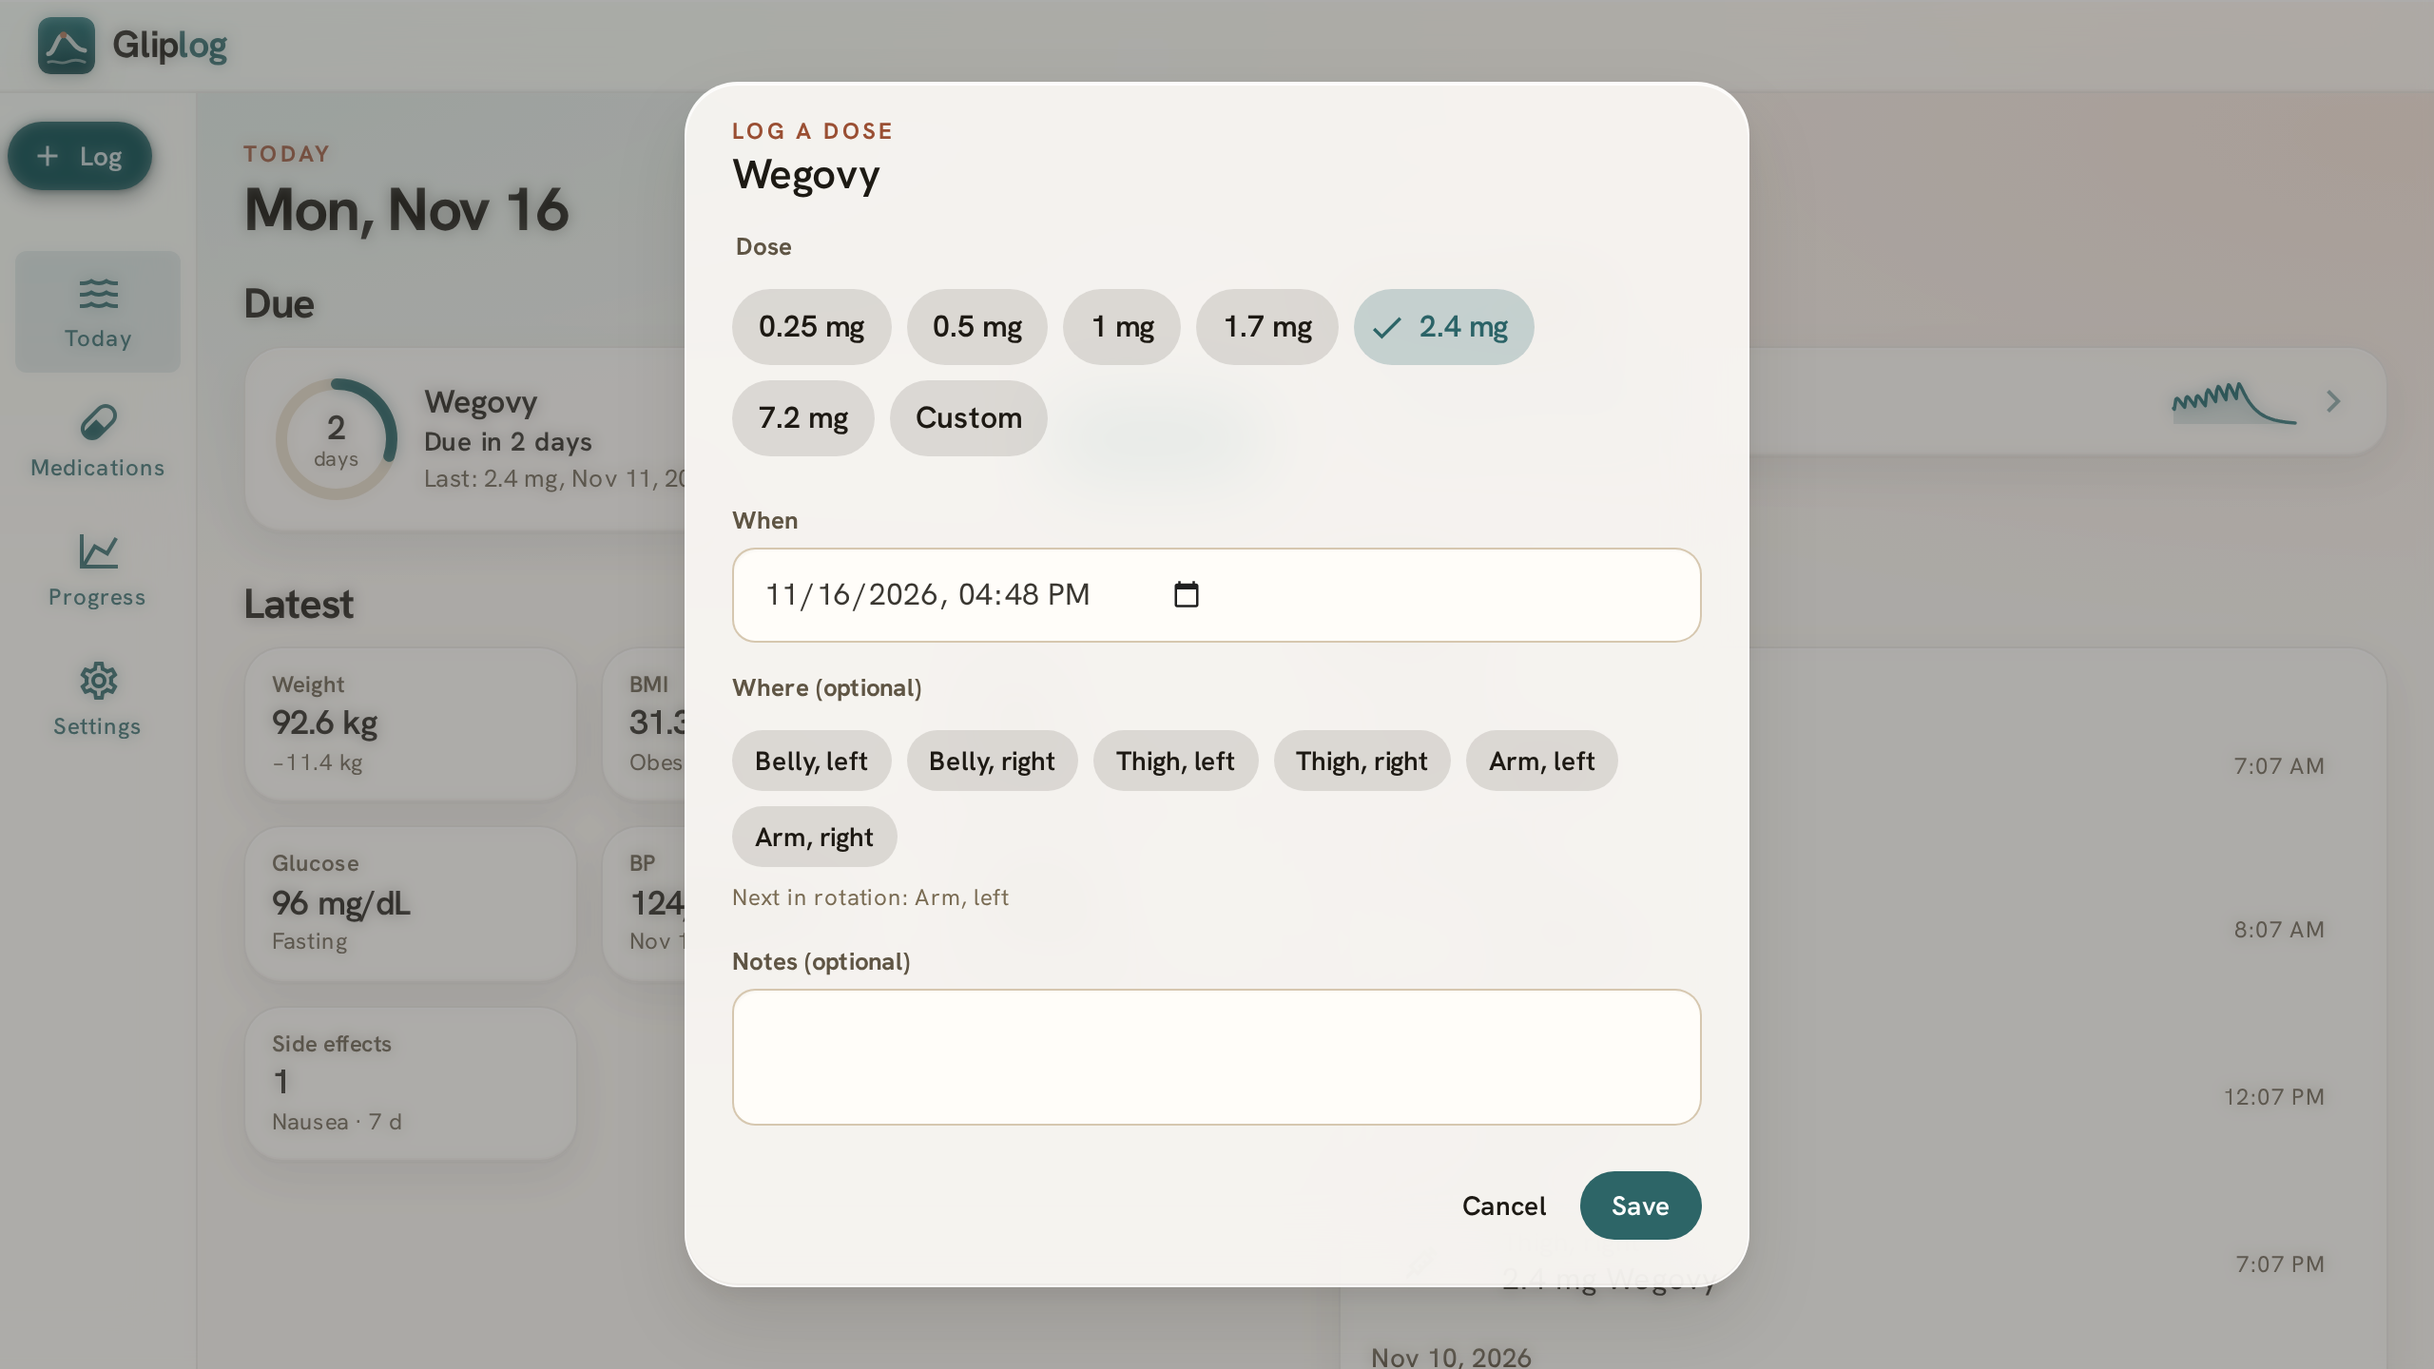
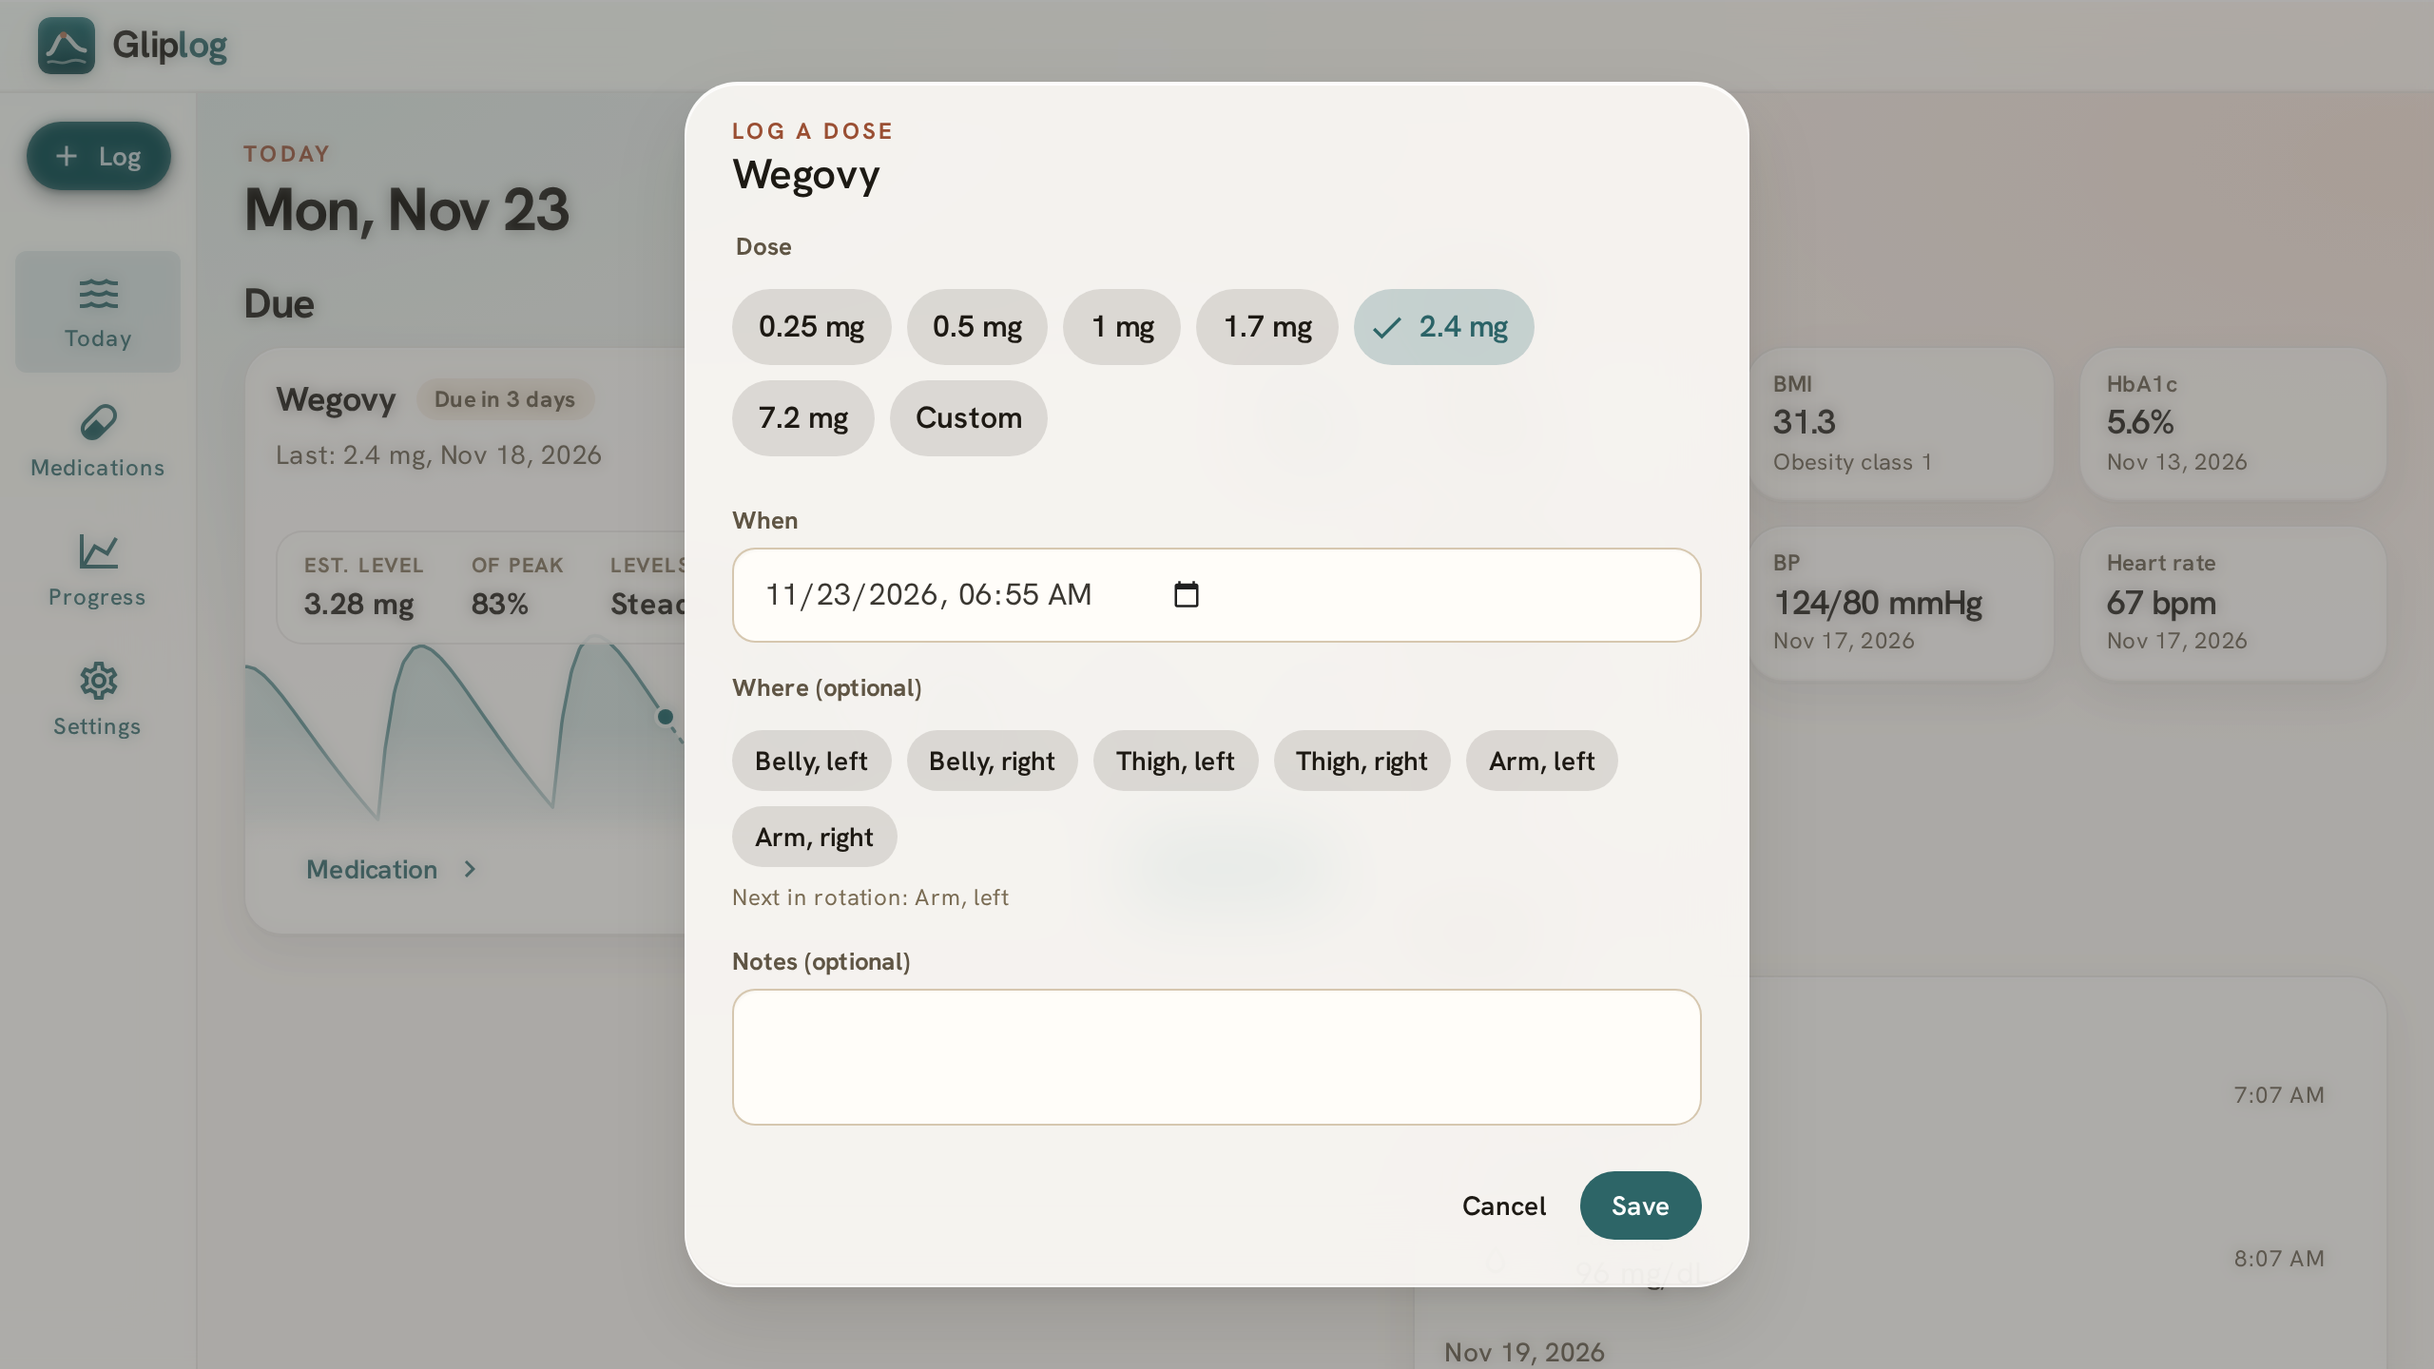
Release 0.3.3: optional realistic draw visualization
- Hide the syringe needle and plunger by default in Android and iOS builds for compounded medications.
- Add a Realistic draw visualization setting (on by default on the web, off by default in native apps).
- Apply the setting to LogDoseDialog and MedicationView syringe graphics.
- Update fastlane store screenshots.

diff --git a/src/stores/settings.ts b/src/stores/settings.ts
@@ -46,7 +46,14 @@ const SETTING_KEYS = {
   installHintDismissed: 'installHintDismissed',
   reminders: 'reminders',
   dismissedOverlaps: 'dismissedOverlaps',
+  realisticSyringe: 'realisticSyringe',
 } as const
+
+/**
+ * Whether the syringe drawing shows a needle and plunger. Off by default in the Android and iOS
+ * apps, where store policies restrict medical syringe imagery; on by default on the web.
+ */
+const REALISTIC_SYRINGE_DEFAULT = !__NATIVE__
 
 const positiveOrNull = (v: unknown) =>
   typeof v === 'number' && Number.isFinite(v) && v > 0 ? v : null
@@ -79,6 +86,7 @@ export const useSettingsStore = defineStore('settings', () => {
   const reminders = ref<ReminderSettings>(sanitizeReminderSettings(null))
   /** Combinations of medicines whose "both in use" notice the user dismissed (see overlap.ts). */
   const dismissedOverlaps = ref<string[]>([])
+  const realisticSyringe = ref(REALISTIC_SYRINGE_DEFAULT)
 
   async function load() {
     const [
@@ -93,6 +101,7 @@ export const useSettingsStore = defineStore('settings', () => {
       hint,
       remind,
       overlaps,
+      realistic,
     ] = await Promise.all([
       repository.getSetting<ThemePreference>(SETTING_KEYS.theme),
       repository.getSetting<WeightUnit>(SETTING_KEYS.weightUnit),
@@ -105,6 +114,7 @@ export const useSettingsStore = defineStore('settings', () => {
       repository.getSetting<boolean>(SETTING_KEYS.installHintDismissed),
       repository.getSetting<unknown>(SETTING_KEYS.reminders),
       repository.getSetting<unknown>(SETTING_KEYS.dismissedOverlaps),
+      repository.getSetting<unknown>(SETTING_KEYS.realisticSyringe),
     ])
     const storedUnits = {
       weightUnit: wUnit,
@@ -135,6 +145,7 @@ export const useSettingsStore = defineStore('settings', () => {
     installHintDismissed.value = hint ?? false
     reminders.value = sanitizeReminderSettings(remind)
     dismissedOverlaps.value = sanitizeDismissed(overlaps)
+    realisticSyringe.value = typeof realistic === 'boolean' ? realistic : REALISTIC_SYRINGE_DEFAULT
     await Promise.all(
       (Object.keys(toStore) as (keyof UnitDefaults)[]).map((key) => {
         const value = toStore[key]
@@ -156,6 +167,11 @@ export const useSettingsStore = defineStore('settings', () => {
   async function setTheme(value: ThemePreference) {
     theme.value = value
     await repository.setSetting(SETTING_KEYS.theme, value)
+  }
+
+  async function setRealisticSyringe(value: boolean) {
+    realisticSyringe.value = value
+    await repository.setSetting(SETTING_KEYS.realisticSyringe, value)
   }
 
   async function setWeightUnit(value: WeightUnit) {
@@ -253,8 +269,10 @@ export const useSettingsStore = defineStore('settings', () => {
     installHintDismissed,
     reminders,
     dismissedOverlaps,
+    realisticSyringe,
     load,
     setTheme,
+    setRealisticSyringe,
     setWeightUnit,
     setHeightUnit,
     setGlucoseUnit,

diff --git a/src/components/journal/SyringeGraphic.vue b/src/components/journal/SyringeGraphic.vue
@@ -3,12 +3,20 @@ import { computed, onBeforeUnmount, onMounted, ref, useId, watch } from 'vue'
 import { roundTo } from '@/domain/units'
 
 /**
- * A 1 mL U-100 insulin syringe drawn up to `units`. The plunger glides to each new reading;
- * the text reading is exact and never tweened.
+ * A 1 mL U-100 insulin syringe drawn up to `units`. The fill glides to each new reading; the
+ * text reading is exact and never tweened.
  */
-const props = defineProps<{
-  units: number
-}>()
+const props = withDefaults(
+  defineProps<{
+    units: number
+    /**
+     * Draw the needle and plunger. Off draws only the graduated barrel and its liquid, which
+     * store policies on medical syringe imagery allow (see `realisticSyringe` in settings).
+     */
+    realistic?: boolean
+  }>(),
+  { realistic: false },
+)
 
 // A 1 mL U-100 syringe, the largest common size: 100 units, a tick every 2, a number every 10.
 const CAPACITY_UNITS = 100
@@ -93,7 +101,7 @@ const flagX = computed(() =>
 </script>
 
 <template>
-  <figure class="syringe">
+  <figure class="syringe" :class="{ 'syringe--simple': !realistic }">
     <svg
       :viewBox="`0 0 ${VIEW_W} ${VIEW_H}`"
       role="img"
@@ -110,8 +118,17 @@ const flagX = computed(() =>
       </defs>
 
       <!-- Needle and hub -->
-      <line class="syringe__needle" x1="8" :y1="MID_Y" :x2="BARREL_X - 16" :y2="MID_Y" />
-      <rect class="syringe__hub" :x="BARREL_X - 18" :y="MID_Y - 9" width="18" height="18" rx="3" />
+      <template v-if="realistic">
+        <line class="syringe__needle" x1="8" :y1="MID_Y" :x2="BARREL_X - 16" :y2="MID_Y" />
+        <rect
+          class="syringe__hub"
+          :x="BARREL_X - 18"
+          :y="MID_Y - 9"
+          width="18"
+          height="18"
+          rx="3"
+        />
+      </template>
 
       <!-- Barrel, liquid, and plunger -->
       <rect
@@ -132,6 +149,7 @@ const flagX = computed(() =>
         :fill="`url(#${fluidId})`"
       />
       <rect
+        v-if="realistic"
         class="syringe__rod"
         :x="fillX + STOPPER_W"
         :y="MID_Y - 5"
@@ -139,7 +157,7 @@ const flagX = computed(() =>
         height="10"
       />
       <!-- Rubber stopper: two sealing ribs either side of a groove -->
-      <g class="syringe__stopper">
+      <g v-if="realistic" class="syringe__stopper">
         <rect :x="fillX" :y="BARREL_Y + 2" :width="STOPPER_W" :height="BARREL_H - 4" rx="2" />
         <rect
           class="syringe__groove"
@@ -160,6 +178,7 @@ const flagX = computed(() =>
         rx="2.5"
       />
       <rect
+        v-if="realistic"
         class="syringe__thumb"
         :x="BARREL_X + BARREL_W + 52"
         :y="BARREL_Y - 6"

diff --git a/tests/components/journal/SyringeGraphic.spec.ts b/tests/components/journal/SyringeGraphic.spec.ts
@@ -1,0 +1,27 @@
+import { describe, expect, it } from 'vitest'
+import SyringeGraphic from '@/components/journal/SyringeGraphic.vue'
+import { mountWithVuetify } from '../../helpers'
+
+describe('SyringeGraphic', () => {
+  it('describes the reading for screen readers', () => {
+    const wrapper = mountWithVuetify(SyringeGraphic, { props: { units: 25 } })
+    expect(wrapper.find('svg').attributes('aria-label')).toBe(
+      '1 mL U-100 syringe, filled to 25 of 100 units',
+    )
+  })
+
+  it('draws no needle or plunger unless realistic', () => {
+    const simple = mountWithVuetify(SyringeGraphic, { props: { units: 25 } })
+    expect(simple.find('figure').classes()).toContain('syringe--simple')
+    for (const part of ['needle', 'hub', 'rod', 'stopper', 'thumb']) {
+      expect(simple.find(`.syringe__${part}`).exists()).toBe(false)
+    }
+    expect(simple.find('.syringe__fill').exists()).toBe(true)
+
+    const realistic = mountWithVuetify(SyringeGraphic, { props: { units: 25, realistic: true } })
+    expect(realistic.find('figure').classes()).not.toContain('syringe--simple')
+    for (const part of ['needle', 'hub', 'rod', 'stopper', 'thumb']) {
+      expect(realistic.find(`.syringe__${part}`).exists()).toBe(true)
+    }
+  })
+})

diff --git a/src/components/journal/LogDoseDialog.vue b/src/components/journal/LogDoseDialog.vue
@@ -6,6 +6,7 @@ import { formatDose, roundTo } from '@/domain/units'
 import { useJournalStore } from '@/stores/journal'
 import { useNotifyStore } from '@/stores/notify'
 import { useConfirmStore } from '@/stores/confirm'
+import { useSettingsStore } from '@/stores/settings'
 import { fromLocalInputValue, nowIso, toIso, toLocalInputValue } from '@/services/time'
 import PresetPicker from '@/components/common/PresetPicker.vue'
 import SyringeGraphic from './SyringeGraphic.vue'
@@ -24,6 +25,7 @@ const open = defineModel<boolean>({ required: true })
 const journal = useJournalStore()
 const notify = useNotifyStore()
 const confirm = useConfirmStore()
+const settings = useSettingsStore()
 const titleId = useId()
 const saving = ref(false)
 
@@ -141,7 +143,7 @@ async function remove() {
           input-id="dose-custom"
         />
         <div v-if="reading" class="gl-inset reading">
-          <SyringeGraphic :units="reading.units" />
+          <SyringeGraphic :units="reading.units" :realistic="settings.realisticSyringe" />
           <div class="reading__text" aria-live="polite">
             <span class="gl-num text-title-large">{{ roundTo(reading.units, 1) }} units</span>
             <span class="gl-muted text-body-small">

diff --git a/tests/stores/settings.spec.ts b/tests/stores/settings.spec.ts
@@ -170,3 +170,37 @@ describe('settings.load', () => {
     expect(settings.heightUnit).toBe('ftin')
   })
 })
+
+describe('settings.realisticSyringe', () => {
+  beforeEach(async () => {
+    setActivePinia(createPinia())
+    vi.restoreAllMocks()
+    await Promise.all(db.tables.map((t) => t.clear()))
+    mockRegionalPreferences.mockReset()
+    mockRegionalPreferences.mockResolvedValue({ region: null, measurementSystem: null })
+  })
+
+  it('shows the needle and plunger by default on the web', async () => {
+    const settings = useSettingsStore()
+    await settings.load()
+    expect(settings.realisticSyringe).toBe(true)
+  })
+
+  it('persists the choice across a reload', async () => {
+    const settings = useSettingsStore()
+    await settings.load()
+    await settings.setRealisticSyringe(false)
+
+    setActivePinia(createPinia())
+    const reloaded = useSettingsStore()
+    await reloaded.load()
+    expect(reloaded.realisticSyringe).toBe(false)
+  })
+
+  it('ignores a restored value that is not a boolean', async () => {
+    await repository.setSetting('realisticSyringe', 'yes')
+    const settings = useSettingsStore()
+    await settings.load()
+    expect(settings.realisticSyringe).toBe(true)
+  })
+})

diff --git a/tests/native/stores/settings.spec.ts b/tests/native/stores/settings.spec.ts
@@ -1,0 +1,33 @@
+import { beforeEach, describe, expect, it, vi } from 'vitest'
+import { createPinia, setActivePinia } from 'pinia'
+import { db } from '@/db'
+import { useSettingsStore } from '@/stores/settings'
+
+vi.mock('@/services/locale', () => ({
+  regionalPreferences: async () => ({ region: null, measurementSystem: null }),
+}))
+
+describe('settings.realisticSyringe (native)', () => {
+  beforeEach(async () => {
+    setActivePinia(createPinia())
+    await Promise.all(db.tables.map((t) => t.clear()))
+  })
+
+  it('hides the needle and plunger by default in the store apps', async () => {
+    const settings = useSettingsStore()
+    expect(settings.realisticSyringe).toBe(false)
+    await settings.load()
+    expect(settings.realisticSyringe).toBe(false)
+  })
+
+  it('keeps the choice once the user turns it on', async () => {
+    const settings = useSettingsStore()
+    await settings.load()
+    await settings.setRealisticSyringe(true)
+
+    setActivePinia(createPinia())
+    const reloaded = useSettingsStore()
+    await reloaded.load()
+    expect(reloaded.realisticSyringe).toBe(true)
+  })
+})

diff --git a/src/views/MedicationView.vue b/src/views/MedicationView.vue
@@ -270,7 +270,7 @@ async function deleteMedication() {
                 {{ formatDateTime(lastDose.takenAt) }}
               </p>
               <div v-if="reading" class="gl-inset med-reading">
-                <SyringeGraphic :units="reading.units" />
+                <SyringeGraphic :units="reading.units" :realistic="settings.realisticSyringe" />
                 <div class="med-reading__text">
                   <span class="gl-num text-title-medium"
                     >{{ roundTo(reading.units, 1) }} units</span

diff --git a/src/views/SettingsView.vue b/src/views/SettingsView.vue
@@ -466,6 +466,13 @@ const formatMb = (bytes: number | null) =>
             </v-btn-toggle>
           </div>
           <p class="text-body-small gl-muted">Entries convert when you switch.</p>
+          <v-switch
+            :model-value="settings.realisticSyringe"
+            label="Realistic draw visualization"
+            color="primary"
+            hide-details
+            @update:model-value="settings.setRealisticSyringe(!!$event)"
+          />
         </v-card-text>
       </v-card>
 

diff --git a/.claude/skills/front-end/reference/components.md b/.claude/skills/front-end/reference/components.md
@@ -23,6 +23,7 @@ Part of the `front-end` skill.
 | `journal/EntryRow.vue`, `journal/EntryKindFilter.vue` | Shared entry row (opens its dialog through the log store) and kind filter chip group used by both timeline and calendar                                                                                               |
 | `journal/EntriesCalendar.vue`, `journal/DayPanel.vue` | A month of days, marked where anything was logged or is scheduled; built on `v-date-picker`, paired with a day panel showing that day's entries, photos and scheduled items                                           |
 | `journal/LogDoseDialog.vue`                           | Log or edit a dose: label strengths, syringe units for a vial, site rotation                                                                                                                                          |
+| `journal/SyringeGraphic.vue`                          | 1 mL U-100 syringe drawn up to the dose's units with an accessible reading label; needle and plunger only with `realistic` (Settings, off by default in the store apps)                                               |
 | `journal/LogWeightDialog.vue`                         | Log or edit a weigh-in in kg or lb                                                                                                                                                                                    |
 | `journal/LogSymptomDialog.vue`                        | Log one or more side effects at one strength, or edit one entry                                                                                                                                                       |
 | `journal/LogGlucoseDialog.vue`                        | Log or edit an HbA1c result or a glucose reading (with when in the day)                                                                                                                                               |
